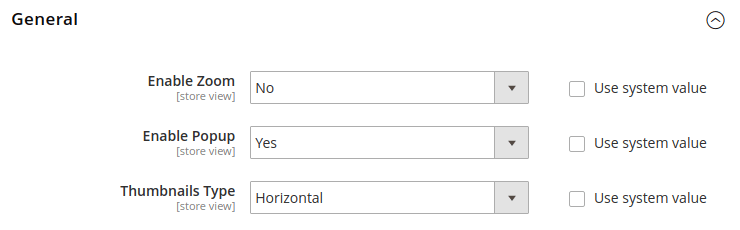
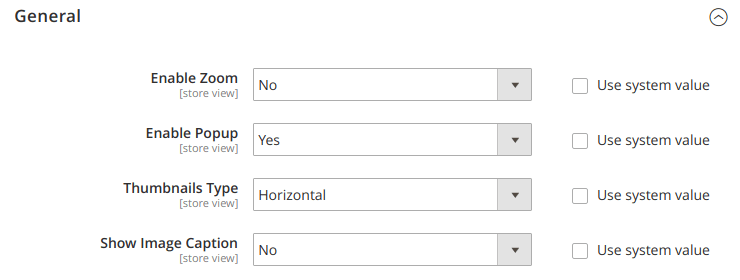
M2 LightboxPro 1.1.0 release

diff --git a/m2/extensions/lightboxpro/changelog.md b/m2/extensions/lightboxpro/changelog.md
@@ -8,6 +8,13 @@ category: Lightbox Pro
 
 # Changelog
 
+### Version 1.1.0
+
+ -  Added config to show image caption
+ -  Gallery template improvement
+ -  Show first image instead of loader to improve PageSpeed score
+ -  Added fix for Magnifier gallery mouse leave (Magento Issue [#15035](https://github.com/magento/magento2/issues/15035))
+
 ### Version 1.0.2
 
  -  Fixed broken product image block in third-party themes

diff --git a/m2/extensions/lightboxpro/known-issues.md b/m2/extensions/lightboxpro/known-issues.md
@@ -11,7 +11,7 @@ category: Lightbox Pro
 ### Magento_ProductVideo/js/fotorama-add-video-events rewrite
 
 Lightbox Pro rewrites `Magento_ProductVideo/js/fotorama-add-video-events` to fix gallery
-issues on configurable product pages. This issue should be fixed in Magento version 2.2.2.
+issues on configurable product pages. This issue was fixed in Magento versions 2.2.4 and 2.1.13.
 
 ### Magento Magnifier Widget
 

diff --git a/m2/extensions/lightboxpro/index.md b/m2/extensions/lightboxpro/index.md
@@ -15,7 +15,7 @@ on product page and insert gallery widget on any store page.
 {% include gallery.html images=site.data.gallery.m2.lightboxpro.index class="scroll phone-up-1 tablet-up-3 photoswipe" %}
 
 - [Installation](installation/)
+- [Changelog](changelog/)
 - [Configuration](configuration/)
 - [Widget](widget/)
 - [Known Issues](known-issues/)
-- [Changelog](changelog/)

diff --git a/m2/extensions/lightboxpro/configuration.md b/m2/extensions/lightboxpro/configuration.md
@@ -24,6 +24,8 @@ category: Lightbox Pro
      -  `Horizontal` - show thumbnails horizontally under main image
      -  `Vertical` - show thumbnails vertically left to the main image
      -  `Hidden` - hide thumbnails
+ -  `Show Image Caption` - display image alt text as image caption. If alt text
+ is not set, product name will be used.
 
 ### Image Sizes section
 
